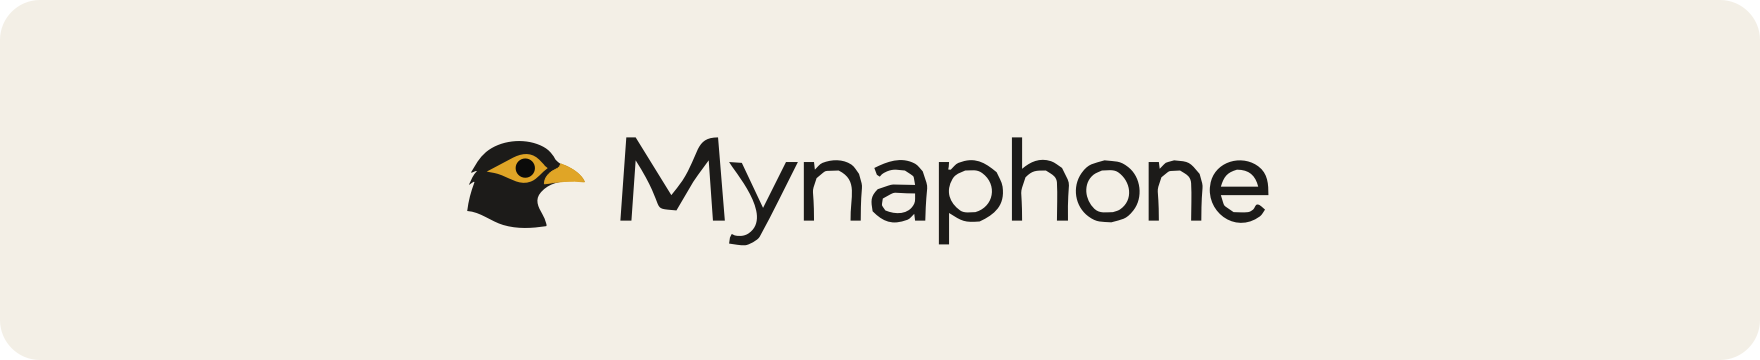
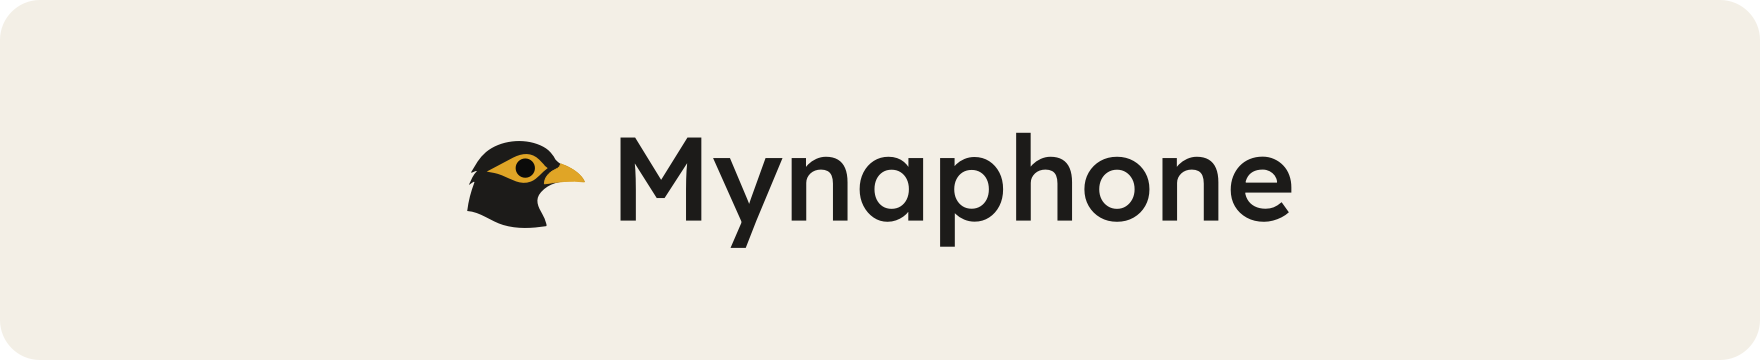
Redraw the wordmark in Lexend and drop incidental Windows 10 mentions
The wordmark's letters were traced outlines with uneven curves. They
are now Lexend 500 as clean outlines, beside the unchanged myna mark,
in the light and dark SVGs, the README banner and the social preview.
Credit the font (SIL OFL 1.1) in the third-party notices.

The social preview now reads "Records Spotify and YouTube Music on
Windows" instead of listing the OS beside the apps.

Remove the author's-laptop and screenshot mentions of Windows 10; the
minimum version stays in the requirements.

Changed region(s): [[0.3438, 0.3667, 0.75, 0.7028]]

diff --git a/THIRD_PARTY_NOTICES.md b/THIRD_PARTY_NOTICES.md
@@ -24,6 +24,10 @@ licenses are also available through the links given.
 | [PyWinRT](https://github.com/pywinrt/pywinrt) (winrt-* packages) | MIT | Windows media-session API access. | [pywinrt/pywinrt](https://github.com/pywinrt/pywinrt) |
 | [Spicetify](https://github.com/spicetify/cli) | MIT | Hosts the Spotify bridge extension (installed separately by the user). | [spicetify/cli](https://github.com/spicetify/cli) |
 
+The letters of the Mynaphone wordmark are set in [Lexend](https://github.com/googlefonts/lexend),
+copyright 2018 The Lexend Project Authors, licensed under the SIL Open Font License 1.1. The
+wordmark images contain the letters as outlines; no font file is distributed.
+
 ## Data services
 
 - **MusicBrainz** data: core data CC0 1.0; some supplementary data CC BY-NC-SA 3.0, per the [MusicBrainz data license](https://musicbrainz.org/doc/About/Data_License).

diff --git a/docs/README.md b/docs/README.md
@@ -53,6 +53,5 @@ to keep. They're grouped by what you came to do, so start with the group that ma
 ## About these pages
 
 The documentation is licensed under [CC BY 4.0](https://creativecommons.org/licenses/by/4.0/). The
-screenshots show version 0.1.0 on Windows 10 at 150 % display scaling, with the author's own
-library. If a page is wrong or unclear, [open an issue](https://github.com/SalmanRavoof/mynaphone/issues)
+screenshots show version 0.1.0 at 150 % display scaling, with the author's own library. If a page is wrong or unclear, [open an issue](https://github.com/SalmanRavoof/mynaphone/issues)
 and name the page.

diff --git a/README.md b/README.md
@@ -29,8 +29,7 @@ it hears.
 
 > [!NOTE]
 > Mynaphone has no packaged release yet. It runs from a copy of this repository with Python, and the
-> [install guide](docs/install.md) takes about 15 minutes. It is in daily use on the author's
-> Windows 10 laptop; Windows 11 hasn't been tested yet.
+> [install guide](docs/install.md) takes about 15 minutes. It is in daily use by its author.
 
 ## What it does
 
